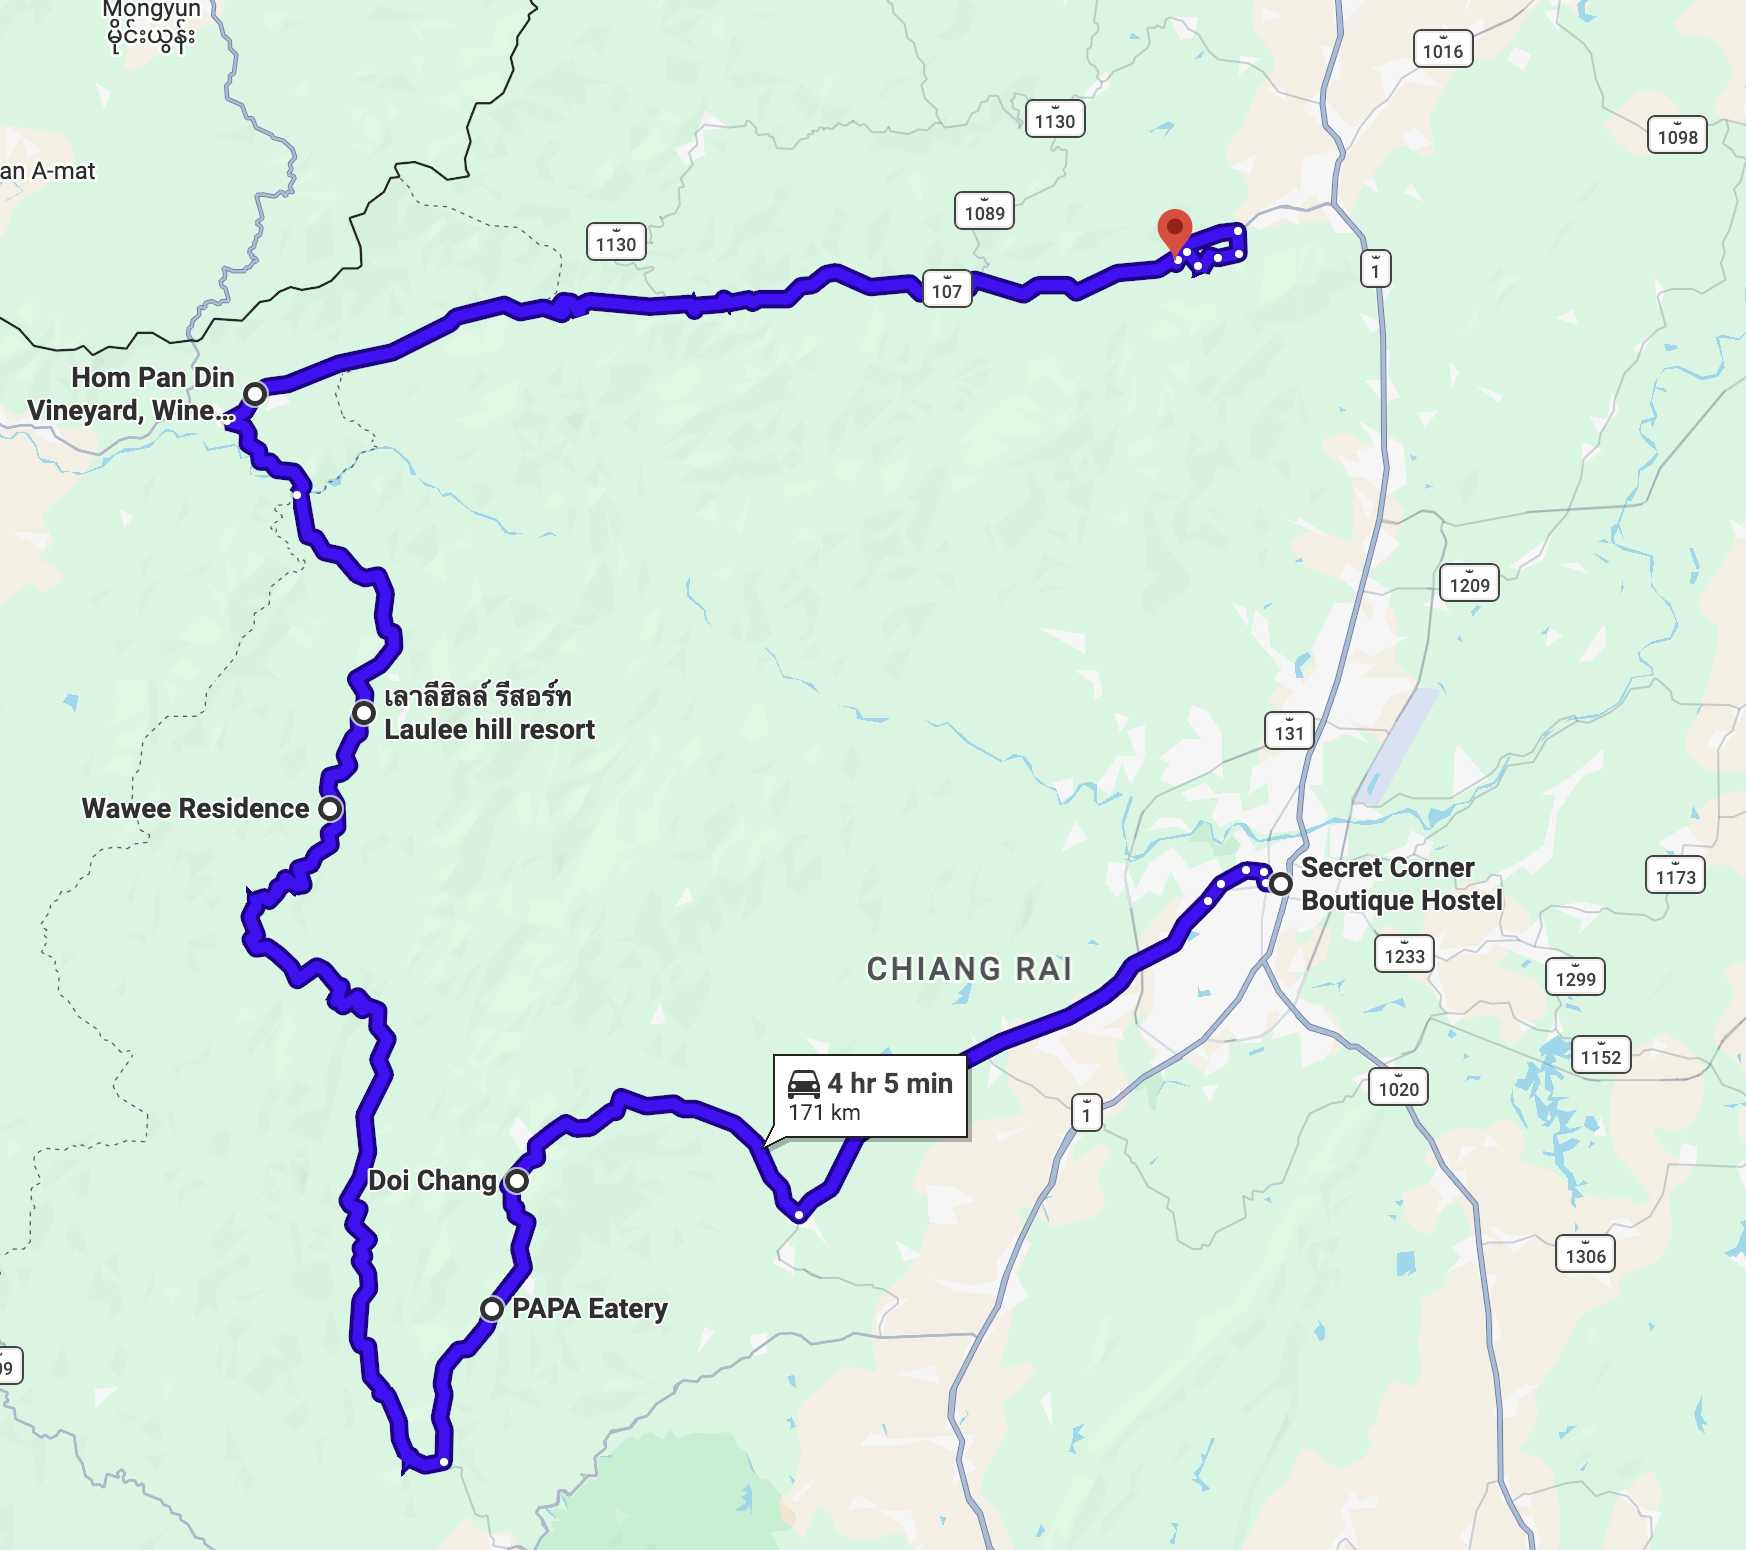
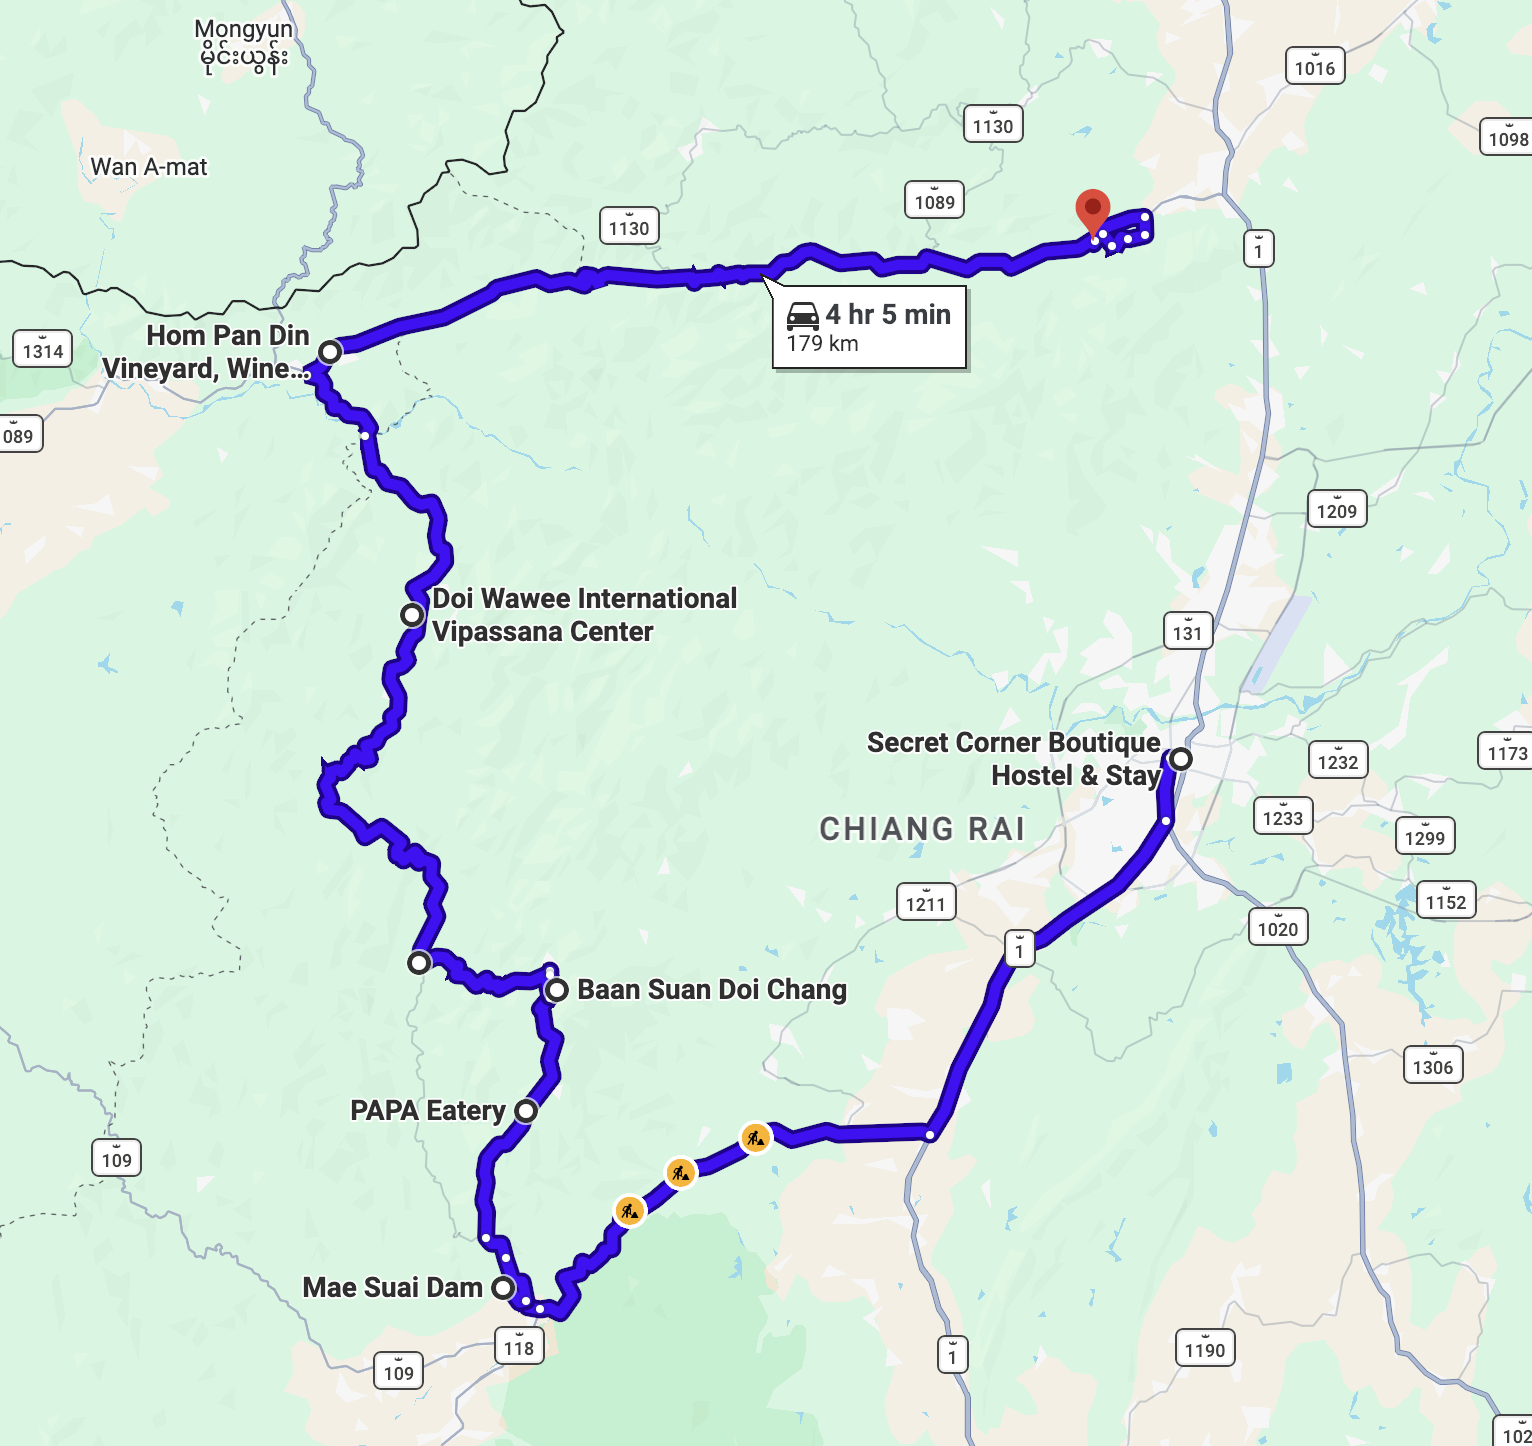
Resolve edits

diff --git a/src/pages/guides/WhyChiangRai.jsx b/src/pages/guides/WhyChiangRai.jsx
@@ -212,7 +212,7 @@ const WhyChiangRai = () => {
 
       {/* Section 3 */}
       <section className="guide-section">
-        <h2>Adventure II - Laos Border Road</h2>
+        <h2>Adventure II - Myanmar Border Road</h2>
         <p>
           Another great driving experience is the border road in the NW of the province. Start this day
           of adventure by visiting the{" "}